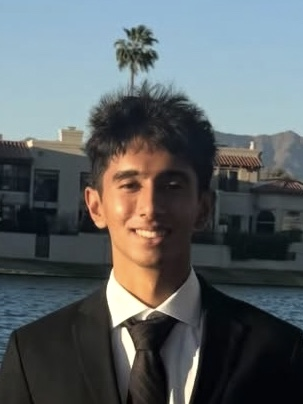
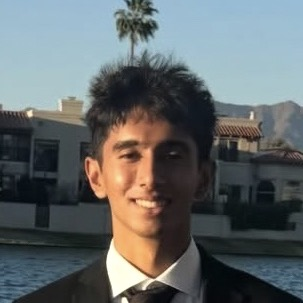
Make Aman Patel and Santiago Caravia Perry Weather Markets desk heads, move John Colyer to general members

diff --git a/src/data/members.ts b/src/data/members.ts
@@ -53,10 +53,16 @@ export const board: BoardMember[] = [
 
 export const deskHeads: DeskHead[] = [
   {
-    name: "John Colyer",
-    desk: "Systematic Biotech",
-    photo: "/headshot-john-colyer.jpg",
-    linkedin: "https://www.linkedin.com/in/john-colyer/",
+    name: "Aman Patel",
+    desk: "Weather Markets",
+    photo: "/headshot-aman-patel.jpg",
+    linkedin: "https://www.linkedin.com/in/aman-patel-3b0b5b361/",
+  },
+  {
+    name: "Santiago Caravia Perry",
+    desk: "Weather Markets",
+    photo: "/headshot-santiago-caravia-perry.jpg",
+    linkedin: "https://www.linkedin.com/in/santiagocaravia/",
   },
 ];
 
@@ -66,12 +72,6 @@ const memberList: Member[] = [
     track: "Engineering",
     photo: "/headshot-avi-goldschmidt.jpg",
     linkedin: "https://www.linkedin.com/in/avi-goldschmidt/",
-  },
-  {
-    name: "Aman Patel",
-    track: "Trading",
-    photo: "/headshot-aman-patel.jpg",
-    linkedin: "https://www.linkedin.com/in/aman-patel-3b0b5b361/",
   },
   {
     name: "Dhruv Aron",
@@ -86,10 +86,10 @@ const memberList: Member[] = [
     linkedin: "https://www.linkedin.com/in/kelly-bae-01bb3a43a/",
   },
   {
-    name: "Santiago Caravia Perry",
+    name: "John Colyer",
     track: "Trading",
-    photo: "/headshot-santiago-caravia-perry.jpg",
-    linkedin: "https://www.linkedin.com/in/santiagocaravia/",
+    photo: "/headshot-john-colyer.jpg",
+    linkedin: "https://www.linkedin.com/in/john-colyer/",
   },
   {
     name: "Sabine Castro",
